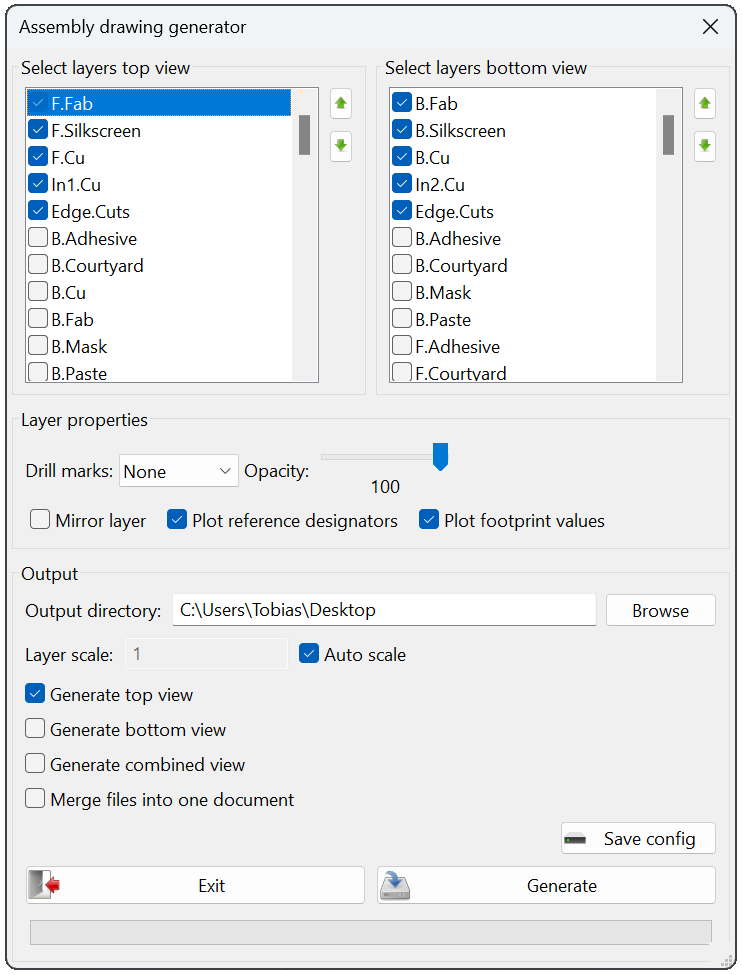
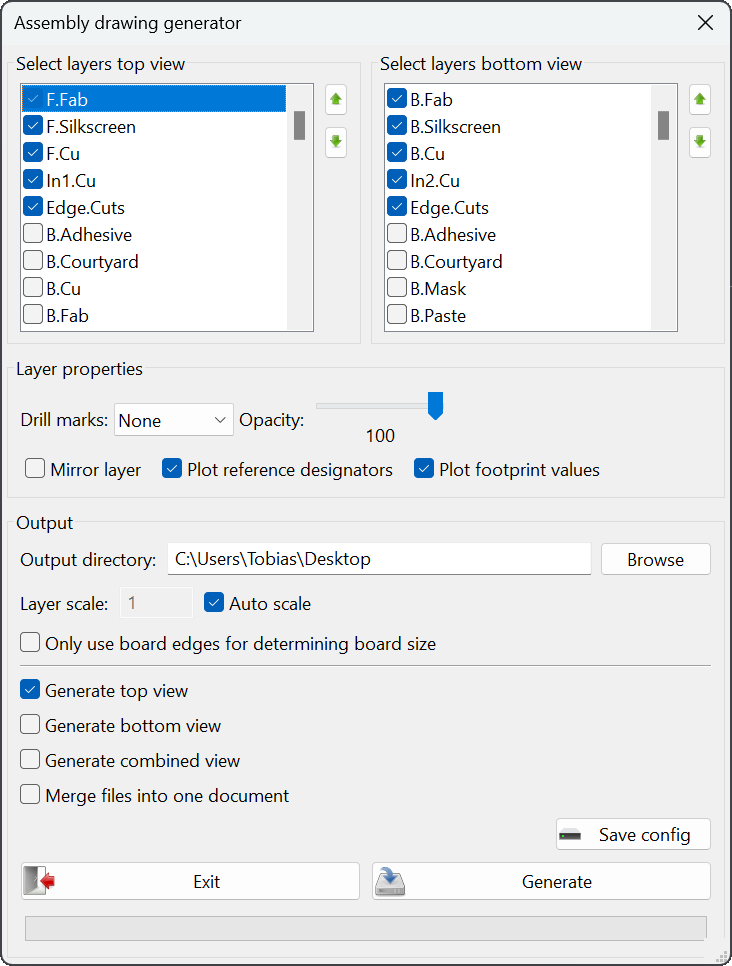
add computing option for bb

diff --git a/plugins/dialog/assembly_generator_base_dialog.py b/plugins/dialog/assembly_generator_base_dialog.py
@@ -193,7 +193,7 @@ class MainDialog ( wx.Dialog ):
 
         bSizer13.Add( self.layerScaleText, 0, wx.ALIGN_CENTER_VERTICAL|wx.ALL, 5 )
 
-        self.layerScaleTextBox = wx.TextCtrl( Output.GetStaticBox(), wx.ID_ANY, _(u"1"), wx.DefaultPosition, wx.DefaultSize, 0 )
+        self.layerScaleTextBox = wx.TextCtrl( Output.GetStaticBox(), wx.ID_ANY, _(u"1"), wx.DefaultPosition, self.FromDIP(wx.Size( 50,-1 )), 0 )
         self.layerScaleTextBox.SetMaxLength( 3 )
         self.layerScaleTextBox.Enable( False )
 
@@ -205,6 +205,12 @@ class MainDialog ( wx.Dialog ):
 
 
         bSizer111.Add( bSizer13, 1, 0, 5 )
+
+        self.boundingBoxCheckBox = wx.CheckBox( Output.GetStaticBox(), wx.ID_ANY, _(u"Only use board edges for determining board size"), wx.DefaultPosition, wx.DefaultSize, 0 )
+        bSizer111.Add( self.boundingBoxCheckBox, 0, wx.ALL, 5 )
+
+        self.m_staticline1 = wx.StaticLine( Output.GetStaticBox(), wx.ID_ANY, wx.DefaultPosition, wx.DefaultSize, wx.LI_HORIZONTAL )
+        bSizer111.Add( self.m_staticline1, 0, wx.ALL|wx.EXPAND, 5 )
 
         self.generateTopCheckBox = wx.CheckBox( Output.GetStaticBox(), wx.ID_ANY, _(u"Generate top view"), wx.DefaultPosition, wx.DefaultSize, 0 )
         bSizer111.Add( self.generateTopCheckBox, 0, wx.ALL, 5 )
@@ -274,6 +280,7 @@ class MainDialog ( wx.Dialog ):
         self.plotRefDesignatorsCheckBox.Bind( wx.EVT_CHECKBOX, self.onPlotRefDesignatorsCheckBox )
         self.plotFootprintValuesCheckBox.Bind( wx.EVT_CHECKBOX, self.onPlotFootprintValuesCheckBox )
         self.autoScaleCheckBox.Bind( wx.EVT_CHECKBOX, self.onAutoScale )
+        self.boundingBoxCheckBox.Bind( wx.EVT_CHECKBOX, self.onBoundingBoxCheckBox )
         self.saveConfigBtn.Bind( wx.EVT_BUTTON, self.onClickSaveConfig )
         self.exitBtn.Bind( wx.EVT_BUTTON, self.onClickExit )
         self.generateBtn.Bind( wx.EVT_BUTTON, self.onClickGenerate )
@@ -323,6 +330,9 @@ class MainDialog ( wx.Dialog ):
         event.Skip()
 
     def onAutoScale( self, event ):
+        event.Skip()
+
+    def onBoundingBoxCheckBox( self, event ):
         event.Skip()
 
     def onClickSaveConfig( self, event ):

diff --git a/plugins/plot.py b/plugins/plot.py
@@ -114,18 +114,21 @@ def scaleTitleBlock(titleBlockSVG):
 def mergeLayers(dialog, board, layersToMerge, settings, combinedView, filename, tempDirectory, outputFileName):
     rootCombined = ET.Element("{http://www.w3.org/2000/svg}svg")
 
-    # only get bb for selected layers, otherwise all shown layers will be included and may cause issues with scaling
-    originalVisibleLayerSet = board.GetVisibleLayers()
-    originalVisibleElements = board.GetVisibleElements()
-    visibleLayerSet = pcbnew.LSET()
-    visibleElements = pcbnew.GAL_SET()
-    for layer in dialog.checkedLayersTop + dialog.checkedLayersBot:
-        visibleLayerSet.AddLayer(board.GetLayerID(layer))
-    board.SetVisibleLayers(visibleLayerSet)
-    board.SetVisibleElements(visibleElements)
-    boundingBox = board.GetBoundingBox()
-    board.SetVisibleLayers(originalVisibleLayerSet)
-    board.SetVisibleElements(originalVisibleElements)
+    if dialog.boundingBoxCheckBox.IsChecked():
+        boundingBox = board.ComputeBoundingBox(True)
+    else:
+        # only get bb for selected layers, otherwise all shown layers will be included and may cause issues with scaling
+        originalVisibleLayerSet = board.GetVisibleLayers()
+        originalVisibleElements = board.GetVisibleElements()
+        visibleLayerSet = pcbnew.LSET()
+        visibleElements = pcbnew.GAL_SET()
+        for layer in dialog.checkedLayersTop + dialog.checkedLayersBot:
+            visibleLayerSet.AddLayer(board.GetLayerID(layer))
+        board.SetVisibleLayers(visibleLayerSet)
+        board.SetVisibleElements(visibleElements)
+        boundingBox = board.ComputeBoundingBox(False)
+        board.SetVisibleLayers(originalVisibleLayerSet)
+        board.SetVisibleElements(originalVisibleElements)
 
     marginTitleBlock = 35.0000 # 3,5cm margin
     marginFrame = 10.0000 # 1cm margin

diff --git a/plugins/dialog/assembly_generator_dialog.py b/plugins/dialog/assembly_generator_dialog.py
@@ -41,6 +41,7 @@ class Dialog(assembly_generator_base_dialog.MainDialog):
             self.mergeFilesCheckBox.SetValue(ast.literal_eval(config.get("OutputSettings", "mergefiles")))
             self.autoScaleCheckBox.SetValue(ast.literal_eval(config.get("OutputSettings", "autoscaling")))
             self.layerScaleTextBox.SetValue(config.get("OutputSettings", "layerscale"))
+            self.boundingBoxCheckBox.SetValue(ast.literal_eval(config.get("OutputSettings", "onlyboardedges")))
         except:
             dlg=wx.MessageDialog(None, "Error while reading config.ini file!", "Error", wx.OK|wx.ICON_INFORMATION)
             dlg.ShowModal()
@@ -236,6 +237,7 @@ class Dialog(assembly_generator_base_dialog.MainDialog):
         config["OutputSettings"]["mergefiles"] = str(self.mergeFilesCheckBox.IsChecked())
         config["OutputSettings"]["autoscaling"] = str(self.autoScaleCheckBox.IsChecked())
         config["OutputSettings"]["layerscale"] = str(self.layerScaleTextBox.GetValue())
+        config["OutputSettings"]["onlyboardedges"] = str(self.boundingBoxCheckBox.IsChecked())
 
         pluginDir = os.path.dirname(os.path.dirname(__file__))
         configPath = os.path.join(pluginDir, "config.ini")
